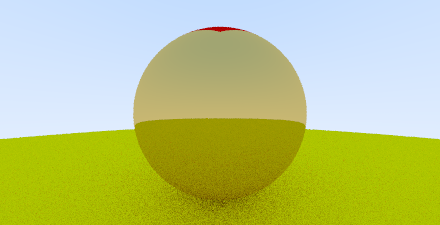
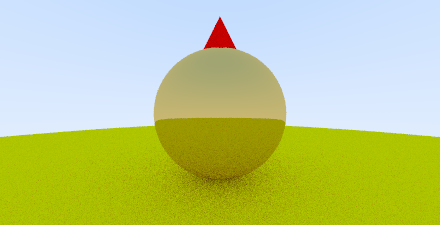
triangles work

Changed region(s): [[0.0, 0.0622, 1.0, 1.0], [0.3841, 0.4978, 0.5909, 0.5289], [0.6795, 0.84, 0.7091, 0.8711]]

diff --git a/src/shapes/triangle.cc b/src/shapes/triangle.cc
@@ -6,62 +6,23 @@ bool Triangle::Hit(const Ray& ray, [[maybe_unused]] double min, [[maybe_unused]]
     
     out.normal = _normal;
     out.mat = _mat;
-    // Vector3D dir_cross_e2 = ray.GetDirection().Cross( _e2 );
-    // double det = _e1.Dot(dir_cross_e2);
-    // if( std::abs(det) < EPSILON ){
-    //     return false;
-    // }
-
-    // double f = 1.0 / det;
-    // //std::cout << f << std::endl;
-
-    // Vector3D pl_to_origin = ray.GetSource() - _p1;
-    // double u = f * pl_to_origin.Dot( dir_cross_e2 );
-
-
-
-    // if( u < 0 || u > 1 ){
-    //     return false;
-    // }
-
-
-    // out.normal = _normal;
-
-    // Vector3D origin_cross_e1 = ray.GetSource().Cross( _e1 );
-    // double v = f * ray.GetDirection().Dot(origin_cross_e1);
-
-
-    // std::cout << u << " " << v << std::endl;
-
-    // if( v < 0 || (u + v) > 1){
-    //     return false;
-    // }
-    // // Vector3D temp = _e1; 
-
-    // // double t = temp.Dot(origin_cross_e1) *= f;
-    // return true;
-
+   
     double NdotRayDirection = _normal.Dot(ray.GetDirection());
     if( std::abs(NdotRayDirection) < EPSILON ){
         std::cout << "case 1: " << _normal << std::endl;
         return false;
     }
 
-    // std::cout << "past 1" << std::endl;
-
     double d = _normal.Dot(_p1);
     double t = (_normal.Dot(ray.GetSource()) + d ) / NdotRayDirection;
 
     if(_normal.UnitVector().Dot(ray.GetDirection()) > 0.0) {
-        // std::cout << "aaaa" << std::endl;
         t = (-_normal.Dot(ray.GetSource()) + d ) / NdotRayDirection;  
     }
 
     if(t < min || t > max) {
-        // std::cout << "case 2: " << _normal.Dot(ray.GetDirection()) << " " << ray.GetSource() << " " << d << std::endl; 
         return false;
     }
-    // std::cout << "past 2" << std::endl;
 
     Vector3D P = ray.GetAt(t);
     out.point = P;
@@ -70,22 +31,12 @@ bool Triangle::Hit(const Ray& ray, [[maybe_unused]] double min, [[maybe_unused]]
         std::cout << "case 3" << std::endl;
         return false;
 
-    } else {
-        // std::cout << "correct" << std::endl;
-        
-        // return true;
-        
     }
-
-    // std::cout << P << std::endl;
 
     Vector3D C;
     Vector3D edge0 = _p2 - _p1;
     Vector3D vp0 = P - _p1;
     C = edge0.Cross(vp0);
-    // std::cout << _normal.Dot(C) << std::endl;
-
-    // std::cout << _normal.Dot(C) << std::endl;
 
     if( _normal.Dot(C) < 0 )
         return false;
@@ -95,26 +46,15 @@ bool Triangle::Hit(const Ray& ray, [[maybe_unused]] double min, [[maybe_unused]]
     Vector3D vp1 = P - _p2;
     C = edge1.Cross(vp1);
 
-    // std::cout << _normal.Dot(C) << std::endl;
-
     if( _normal.Dot(C) < 0 )
         return false;    
-    // std::cout << "past 4" << std::endl;
     
     Vector3D edge2 = _p1 - _p3;
     Vector3D vp2 = P - _p3;
     C = edge2.Cross(vp2);
 
-    // std::cout << _normal.Dot(C) << std::endl;
-
     if( _normal.Dot(C) < 0 )
         return false;
-    
-    // std::cout << "past 5" << std::endl;
-
-    // std::cout << "all tests passed" << std::endl;
-
-
     
     return true;
 }

diff --git a/src/main.cc b/src/main.cc
@@ -44,7 +44,7 @@ int main(int argc, char *argv[]) {
   Hittables hittable_list;
 
   Lambertian t_mat(Color(1, 0, 0));
-  Triangle t = Triangle(Vector3D(-0.5, 0.5, 1), Vector3D(0, 1.5, 1), Vector3D(0.5, 0.5, 1), &t_mat);
+  Triangle t = Triangle(Vector3D(-0.5, 0.5, -1), Vector3D(0, 1.5, -1), Vector3D(0.5, 0.5, -1), &t_mat);
 
   Lambertian ground(Color(0.8, 0.8, 0));
   // Lambertian center(Color(0.1, 0.2, 0.5));
@@ -94,8 +94,8 @@ int main(int argc, char *argv[]) {
 
   // Camera definitions
   double vertical_fov = 120;
-  Vector3D look_from = Vector3D(0, 0, -1);
-  Vector3D look_at = Vector3D(0, 0, 1);
+  Vector3D look_from = Vector3D(0, 0, 1);
+  Vector3D look_at = Vector3D(0, 0, -1);
 
   Camera camera = Camera(look_from, look_at, vertical_fov, aspectRatio);
 
